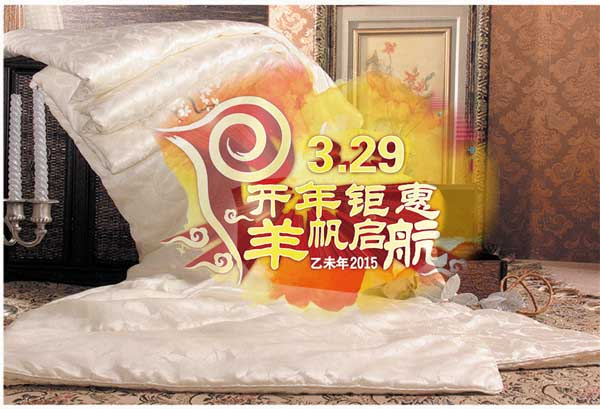
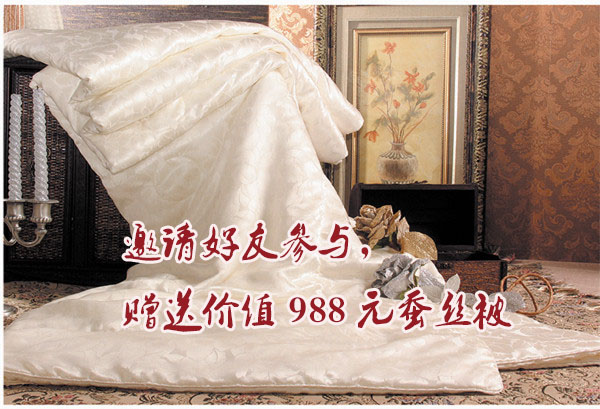
优化红包

diff --git a/Application/Home/View/Jizan/index.html b/Application/Home/View/Jizan/index.html
@@ -18,8 +18,8 @@
 </head>
 <body>
 <section class="top_box clearfix box_hide"><img src="/zhuli/common_840_uqQS8LwQ.jpg" style="width: 0px;height: 0px;"></section>
-<!--<section class="top_box clearfix"><img src="/zhuli/dm1.jpg" style="width: 100%;height: auto;"></section>-->
-<section class="top_box clearfix"><img src="/zhuli/xinyuan2.jpg" style="width: 100%;height: auto;"></section>
+ <section class="top_box clearfix"><img src="/zhuli/dm1.jpg" style="width: 100%;height: auto;"></section>
+<section class="top_box clearfix"><img src="/zhuli/bei.jpg" style="width: 100%;height: auto;"></section>
 <section class="top_bottom clearfix"><div class="top_bottom_main clearfix"></div></section>
 <section class="between_box clearfix">
     <div class="between_box_title clearfix"><p>活动地址：红星美凯龙马兰店西厅地下一层</p></div>
